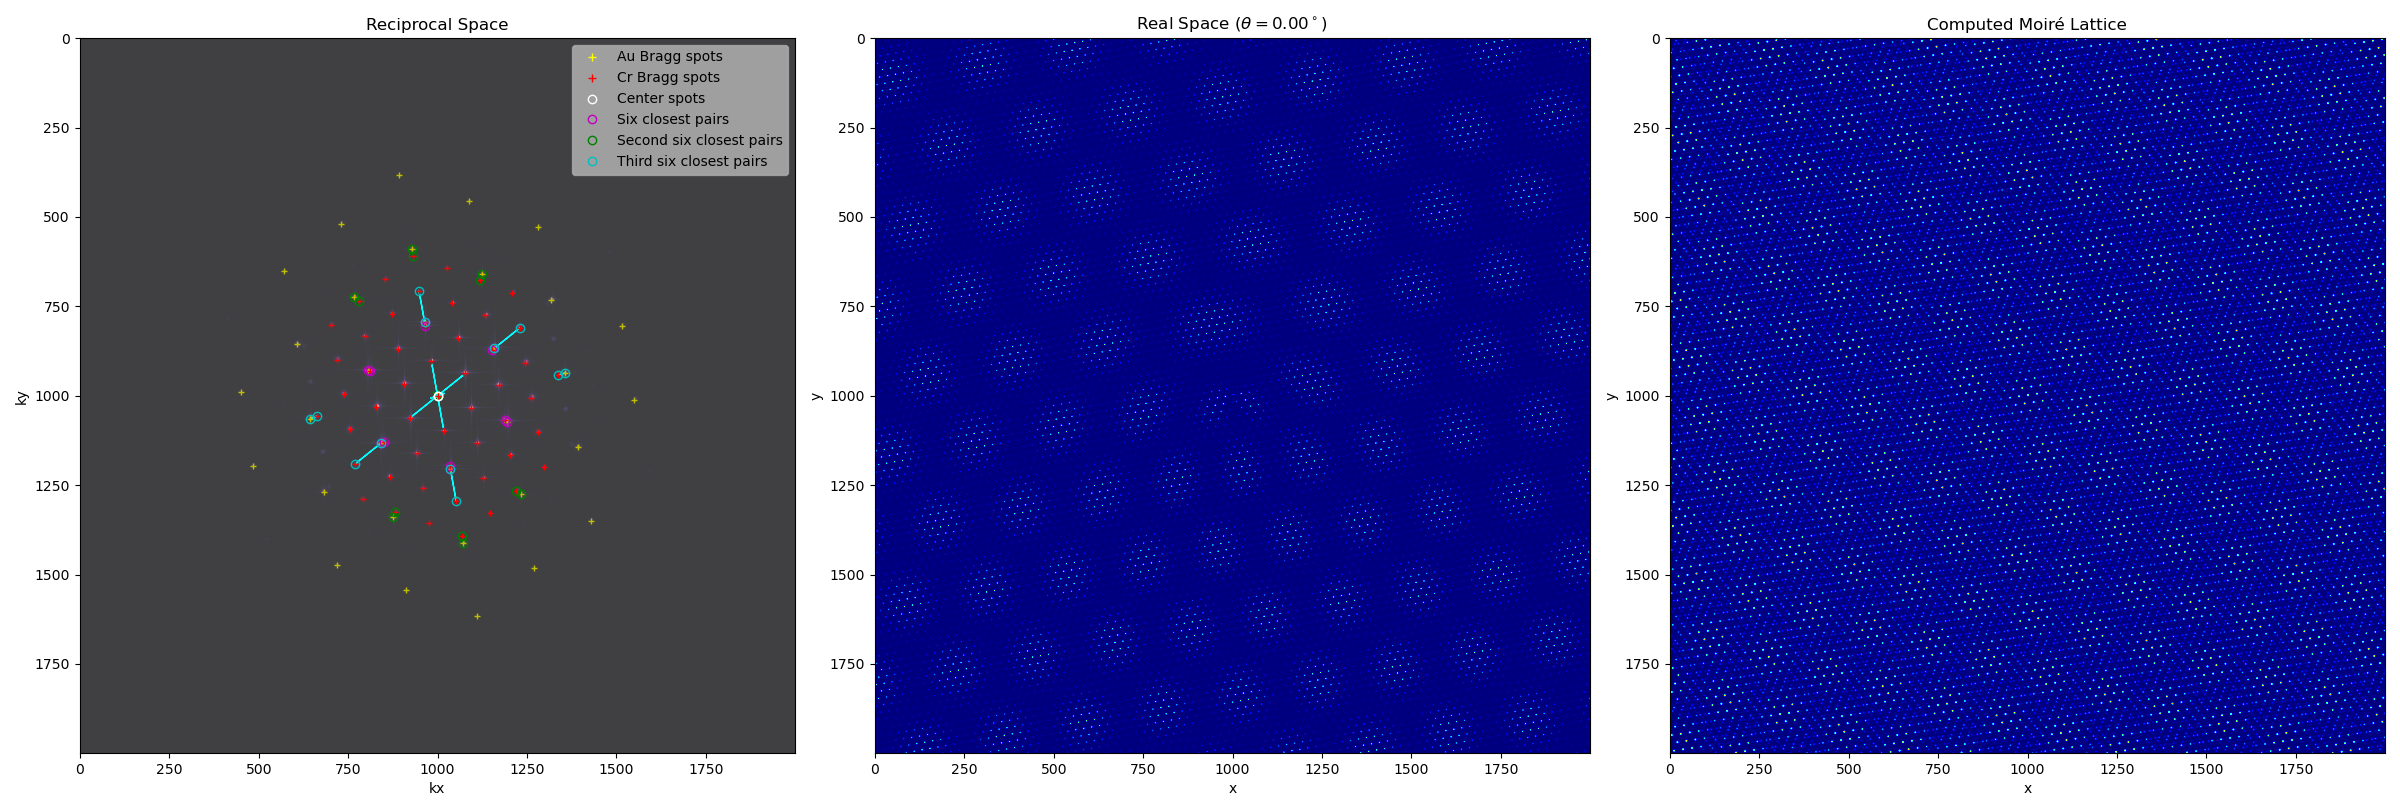
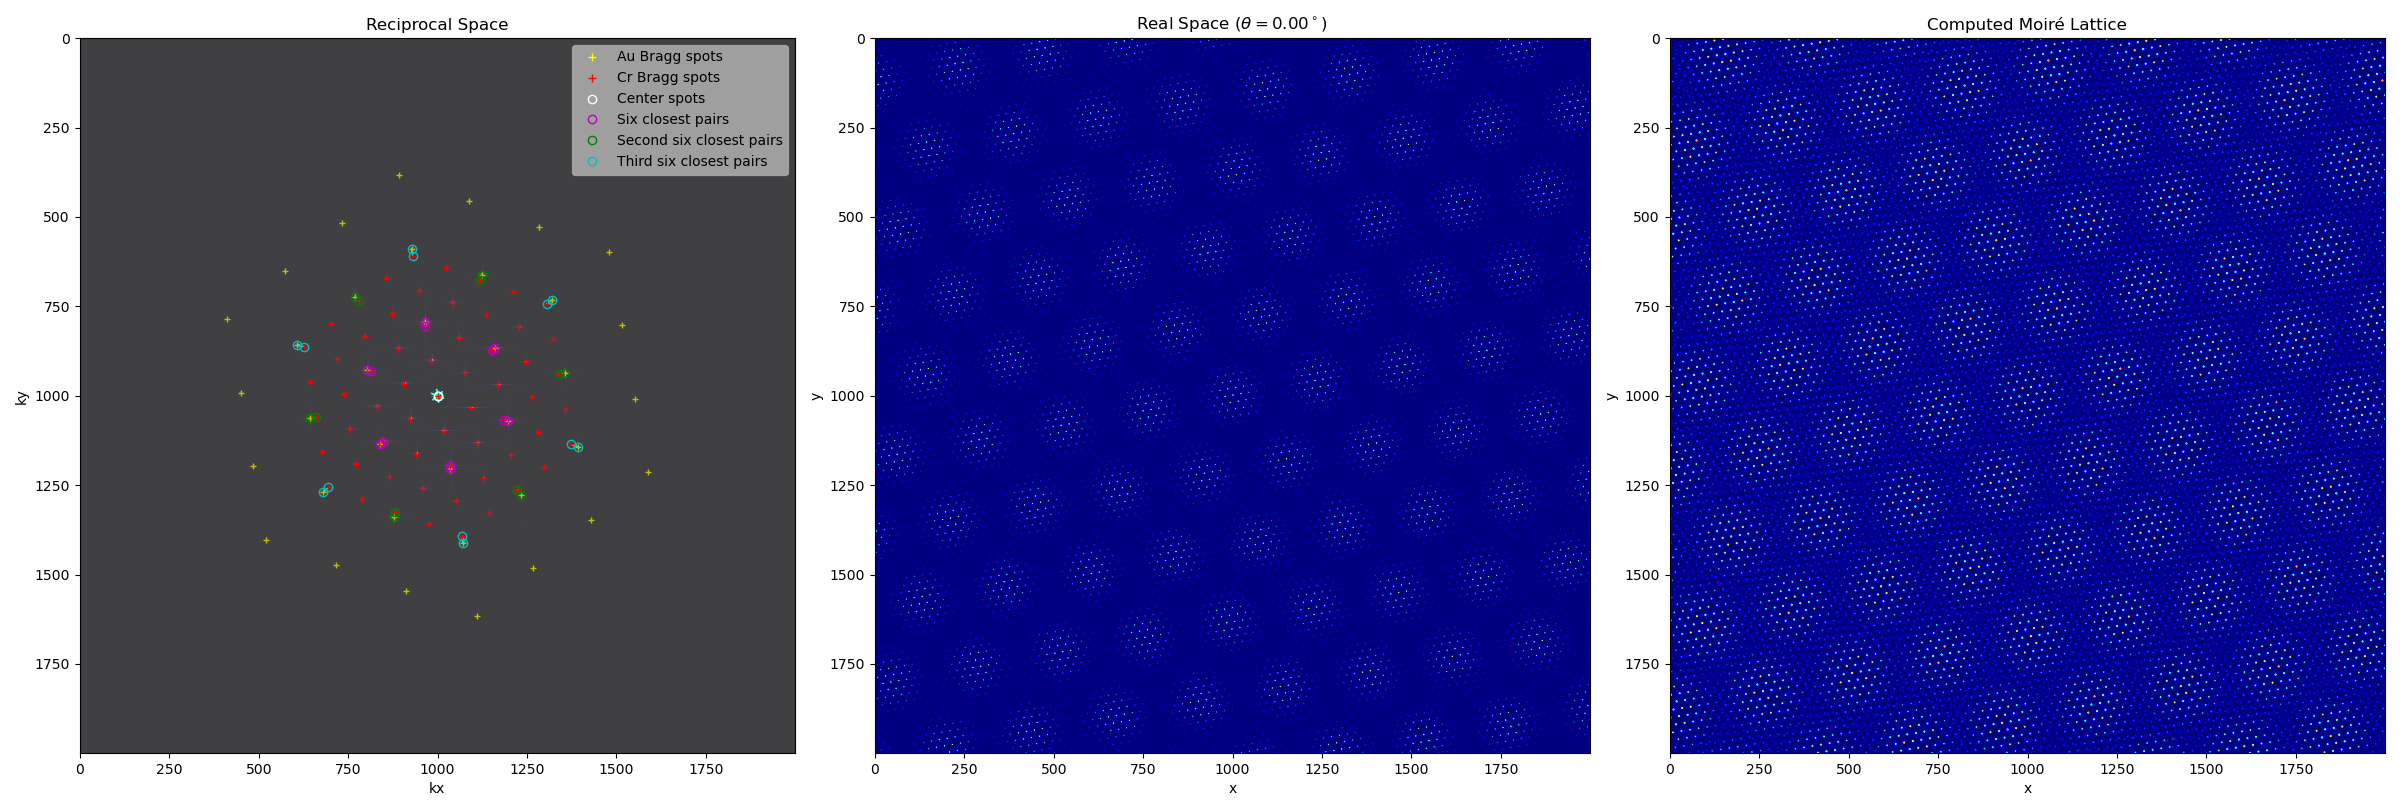
susus

diff --git a/plane waves.py b/plane waves.py
@@ -29,14 +29,14 @@ def lattice_disloc(kx, ky, scale, theta, order):
             * np.cos(scale* kx * np.cos((240 + theta) * np.pi / 180) + scale* ky * np.sin((240 + theta) * np.pi / 180))) ** order
 
 # Create the real space Au lattice
-theta_Au = 50.0  # degrees
+theta_Au = 20.0  # degrees
 Au_real = lattice(X, Y, 2 * np.pi / a_Au, theta_Au, 3)
 
 # Create the reciprocal space Au lattice
 Au_reciprocal = np.fft.fftshift(np.fft.fft2(Au_real))
 
 # Define the range of theta values
-theta_range = np.linspace(20, 20, 1)
+theta_range = np.linspace(50, 53, 4)  # degrees
 
 # Loop over the theta values
 for theta_Cr in theta_range:
@@ -255,7 +255,7 @@ for theta_Cr in theta_range:
 
 
     # Plot Real Space
-    axes[1].set_title(rf'Real Space ($\theta={theta_Au-theta_Cr:.2f}^\circ$)')
+    axes[1].set_title(rf'Real Space ($\theta={theta_Cr-theta_Au:.2f}^\circ$)')
     axes[1].imshow(moire_real, cmap=cm.jet)
     axes[1].set_xlabel('x')
     axes[1].set_ylabel('y')
@@ -268,5 +268,5 @@ for theta_Cr in theta_range:
 
     # Adjust layout and save the figure
     plt.tight_layout()
-    plt.savefig(f"theta_{theta_Au-theta_Cr:.2f}.png")  # Save the figure with the current theta value
+    plt.savefig(f"theta_{theta_Cr-theta_Au:.2f}.png")  # Save the figure with the current theta value
     plt.show()

diff --git a/moiré_hexa.py b/moiré_hexa.py
@@ -1,29 +1,27 @@
 from hexalattice.hexalattice import *
-
-#for i in range(0, 301):
-from hexalattice.hexalattice import *
 import matplotlib.pyplot as plt
 
-# Create the first hexagonal grid
-hex_grid1, h_ax = create_hex_grid(nx=40,
-                                  ny=40,
+# Create the first hexagonal grid (yellow edges)
+hex_grid1, h_ax = create_hex_grid(nx=20,
+                                  ny=20,
                                   rotate_deg=0,
                                   min_diam=0.6,
                                   crop_circ=1000,
                                   edge_color='b',
+                                  line_width=1.5,
                                   do_plot=True)
 
-# Create the second hexagonal grid
-create_hex_grid(nx=40,
-                ny=40,
+# Create the second hexagonal grid (blue edges)
+create_hex_grid(nx=20,
+                ny=20,
                 min_diam=0.6,
-                rotate_deg=5,   # -i / 10,
+                rotate_deg=5,
                 crop_circ=1000,
                 h_ax=h_ax,
                 edge_color='r',
+                line_width=1.5,  # blue
                 do_plot=True)
 
-
 # Save and show the plot
-plt.savefig("10.pdf")
+plt.savefig("5.pdf")
 plt.show()
